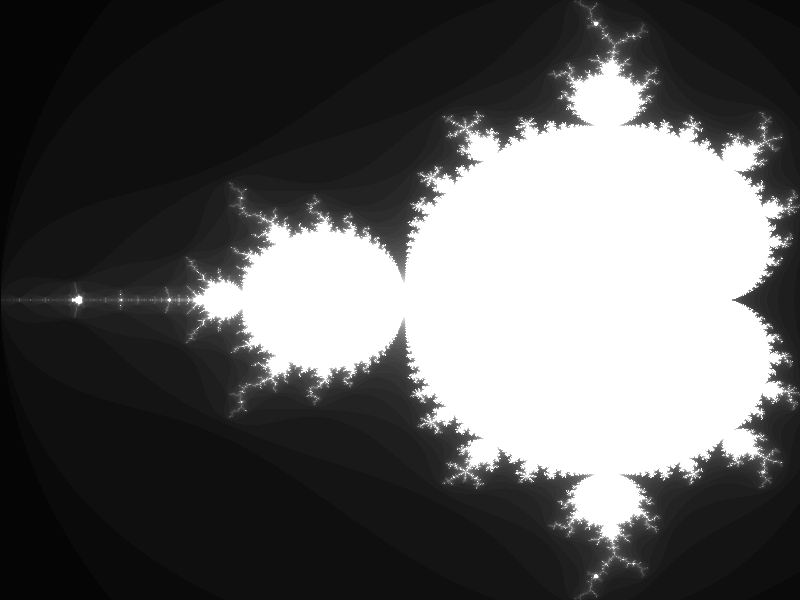
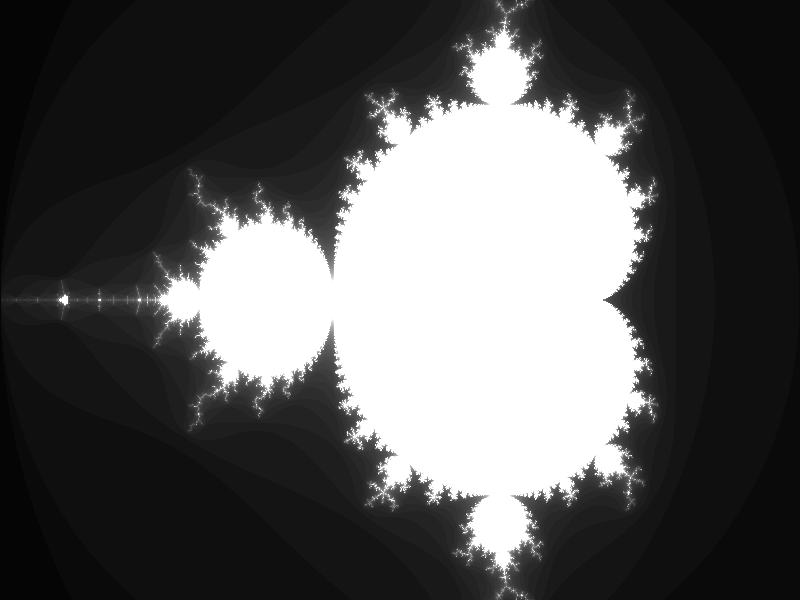
Resize canvas

diff --git a/src/main.cpp b/src/main.cpp
@@ -26,8 +26,8 @@ int main() {
 
     for (auto y = height - 1; y >= 0; --y) {
         for (auto x = 0; x < width; ++x) {
-            auto real = std::lerp(-2.0, 0.47, static_cast<double>(x) / (width - 1));
-            auto imag = std::lerp(-1.12, 1.12, static_cast<double>(y) / (height - 1));
+            auto real = std::lerp(-2, 1, static_cast<double>(x) / (width - 1));
+            auto imag = std::lerp(-1, 1, static_cast<double>(y) / (height - 1));
 
             auto color = mandelbrot({real, imag});
             image << static_cast<int>(color * 255) << ' ';
